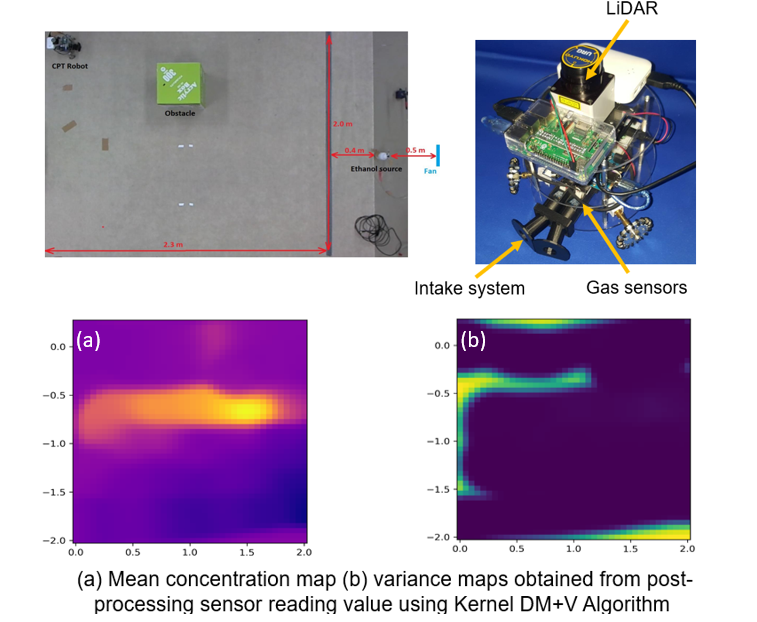
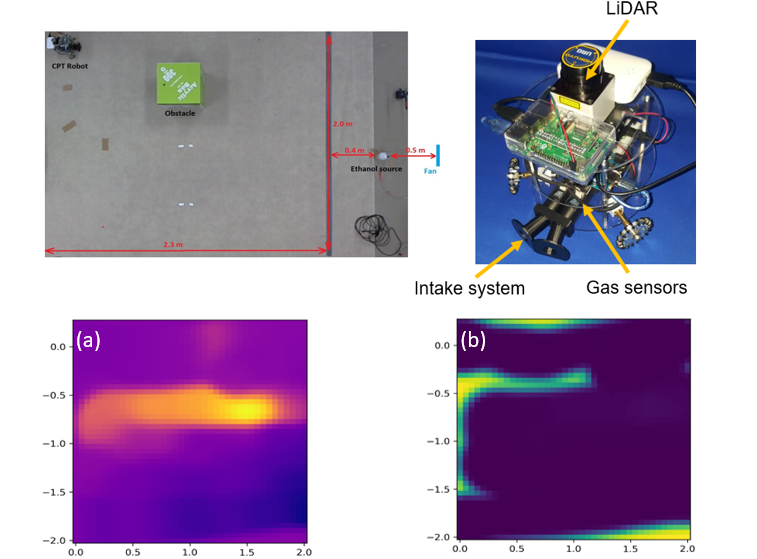
add gif and describtion

diff --git a/aotule.md b/aotule.md
@@ -13,10 +13,14 @@ During my summer exchange at Tokyo Institute of Technology, I conducted research
 <br>
 <center><img src="images/aotule.png"/></center>
 <br>
+<figcaption>(a) Mean gas concentration map (b) Gas concentration variance map obtained from post-processing sensor data using Kernel DM+V algorithm. </figcaption>
 
-![Alt Text](images/aotule_exp.gif)
+<center>![Alt Text](images/aotule_exp.gif)</center>
+<figcaption>Experiment of gas concentration sampling while doing SLAM</figcaption>
 
-Location: Kurabayashi Laboratory, Tokyo Institute of Technology, Japan.
-Date: From 2019 June 1st to 2019 August 31st.
-Context: I was selected as an exchange student from Hanoi University of Science and Technology to join the Asia-Oceania Top University League on Engineering (AOTULE) program held at Tokyo Institute of Technology, Japan.
-
+<div style="text-align: left;">
+  **Location**: Kurabayashi Laboratory, Tokyo Institute of Technology, Japan.  
+  **Date**: From 2019 June 1st to 2019 August 31st.  
+  **Context**: I was selected as an exchange student from Hanoi University of Science and Technology to join the Asia-Oceania Top University League on Engineering (AOTULE) program held at Tokyo Institute of Technology, Japan.
+  **Source code**: [GitHub Repository](https://github.com/nhat-14/Kernel_DM_V)
+</div>
